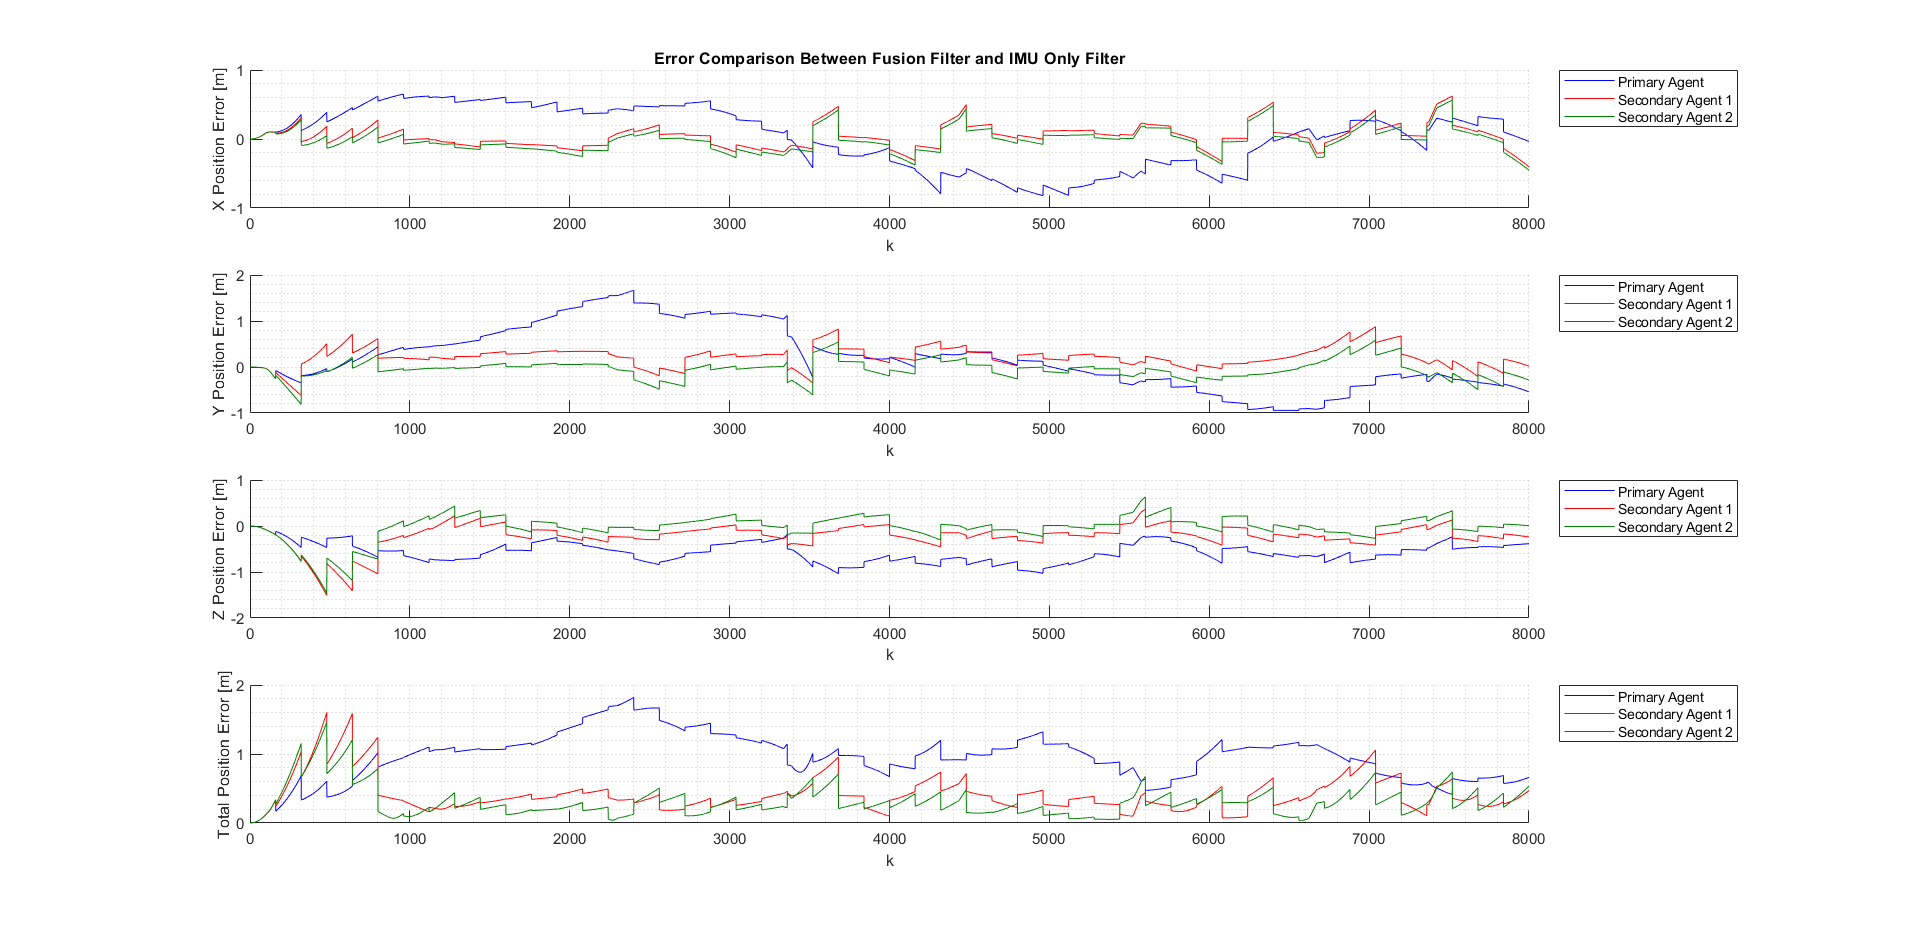
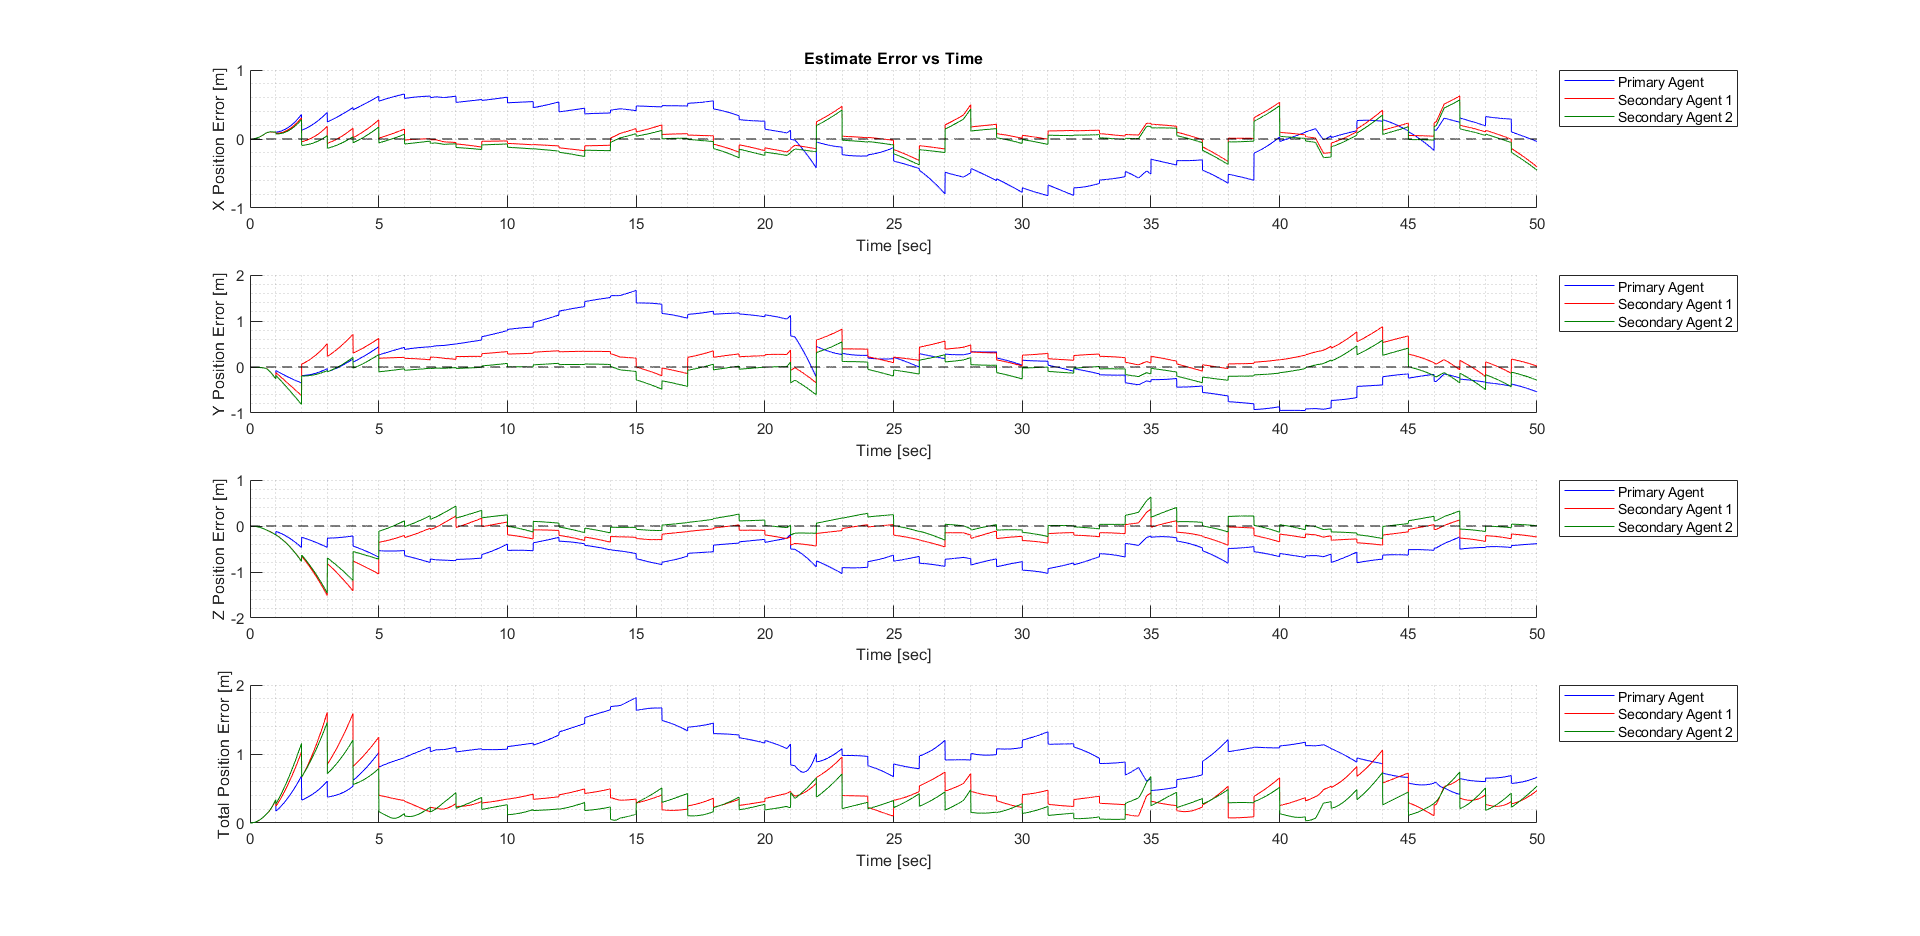
Minor changes to error vs time plot formatting

diff --git a/plotting.m b/plotting.m
@@ -60,12 +60,13 @@ msep_z = [msep_1(3,:); msep_2(3,:); msep_3(3,:)];
 figure(1)
 
 subplot(4,1,1)
-title('Error Comparison Between Fusion Filter and IMU Only Filter')
+title('Estimate Error vs Time')
 hold on
 grid minor
 plot((1:loopBound)/fs_imu, posd_1(:,1,1),'b')
 plot((1:loopBound)/fs_imu, posd_2(:,1,1),'r')
 plot((1:loopBound)/fs_imu, posd_3(:,1,1),'Color',[0,128,0]/255)
+plot((1:loopBound)/fs_imu,zeros(1,length(1:loopBound)),'k--')
 xlabel('Time [sec]');ylabel('X Position Error [m]')
 legend('Primary Agent', 'Secondary Agent 1', 'Secondary Agent 2','Location','northeastoutside')  
 
@@ -75,6 +76,7 @@ grid minor
 plot((1:loopBound)/fs_imu, posd_1(:,2,1),'b')
 plot((1:loopBound)/fs_imu, posd_2(:,2,1),'r')
 plot((1:loopBound)/fs_imu, posd_3(:,2,1),'Color',[0,128,0]/255)
+plot((1:loopBound)/fs_imu,zeros(1,length(1:loopBound)),'k--')
 xlabel('Time [sec]');ylabel('Y Position Error [m]')
 legend('Primary Agent', 'Secondary Agent 1', 'Secondary Agent 2','Location','northeastoutside')  
 
@@ -84,6 +86,7 @@ grid minor
 plot((1:loopBound)/fs_imu, posd_1(:,3,1),'b')
 plot((1:loopBound)/fs_imu, posd_2(:,3,1),'r')
 plot((1:loopBound)/fs_imu, posd_3(:,3,1),'Color',[0,128,0]/255)
+plot((1:loopBound)/fs_imu,zeros(1,length(1:loopBound)),'k--')
 xlabel('Time [sec]');ylabel('Z Position Error [m]')
 legend('Primary Agent', 'Secondary Agent 1', 'Secondary Agent 2','Location','northeastoutside')  
 
